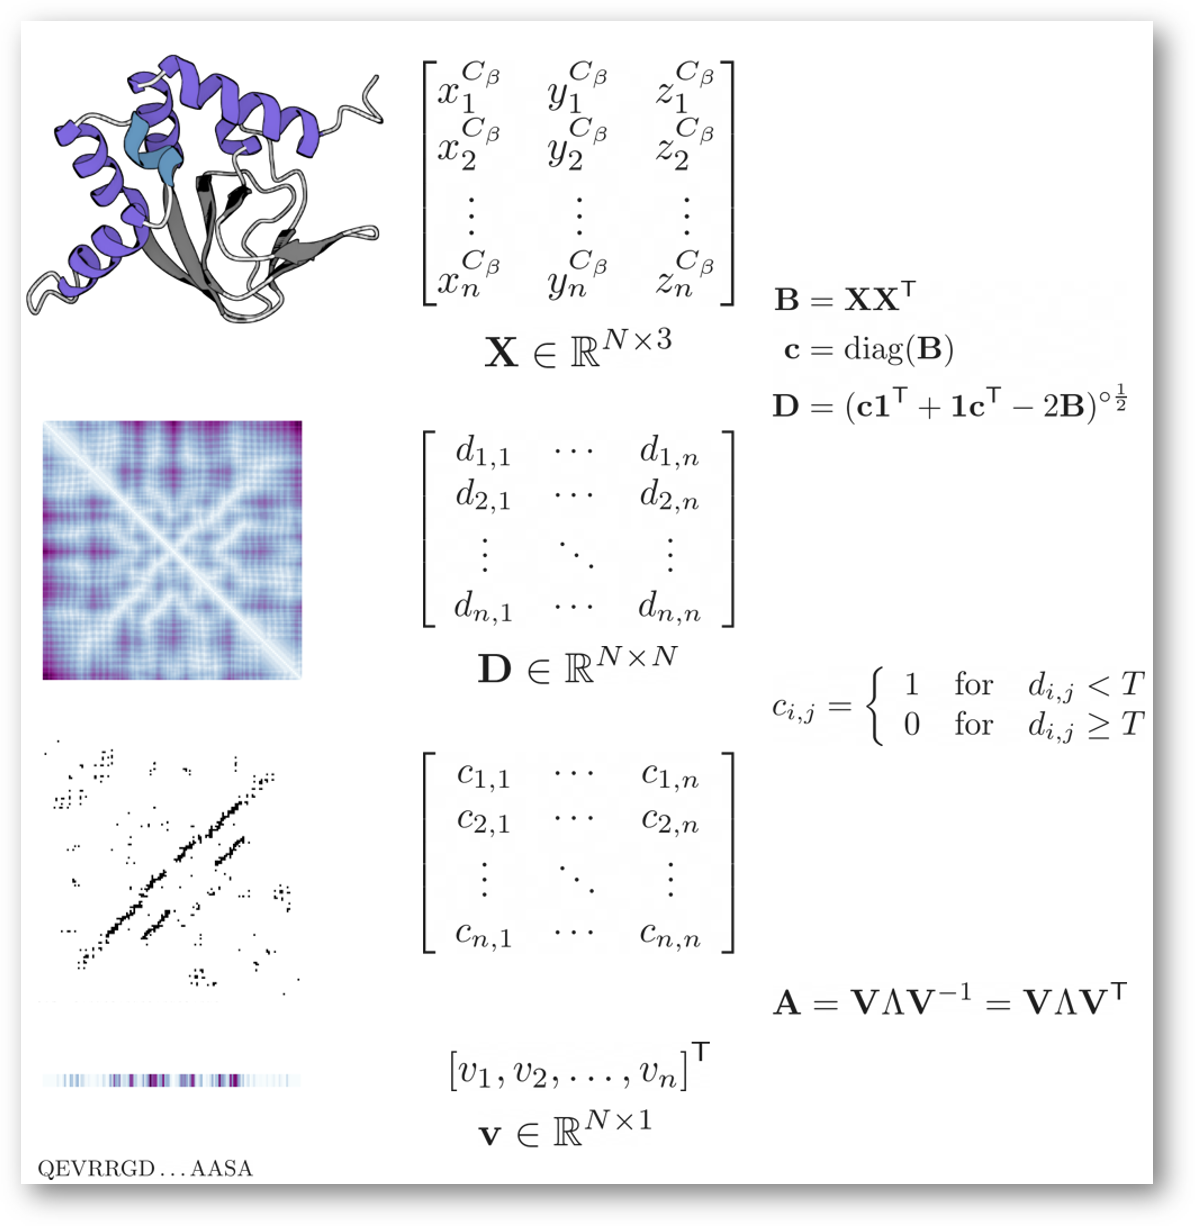
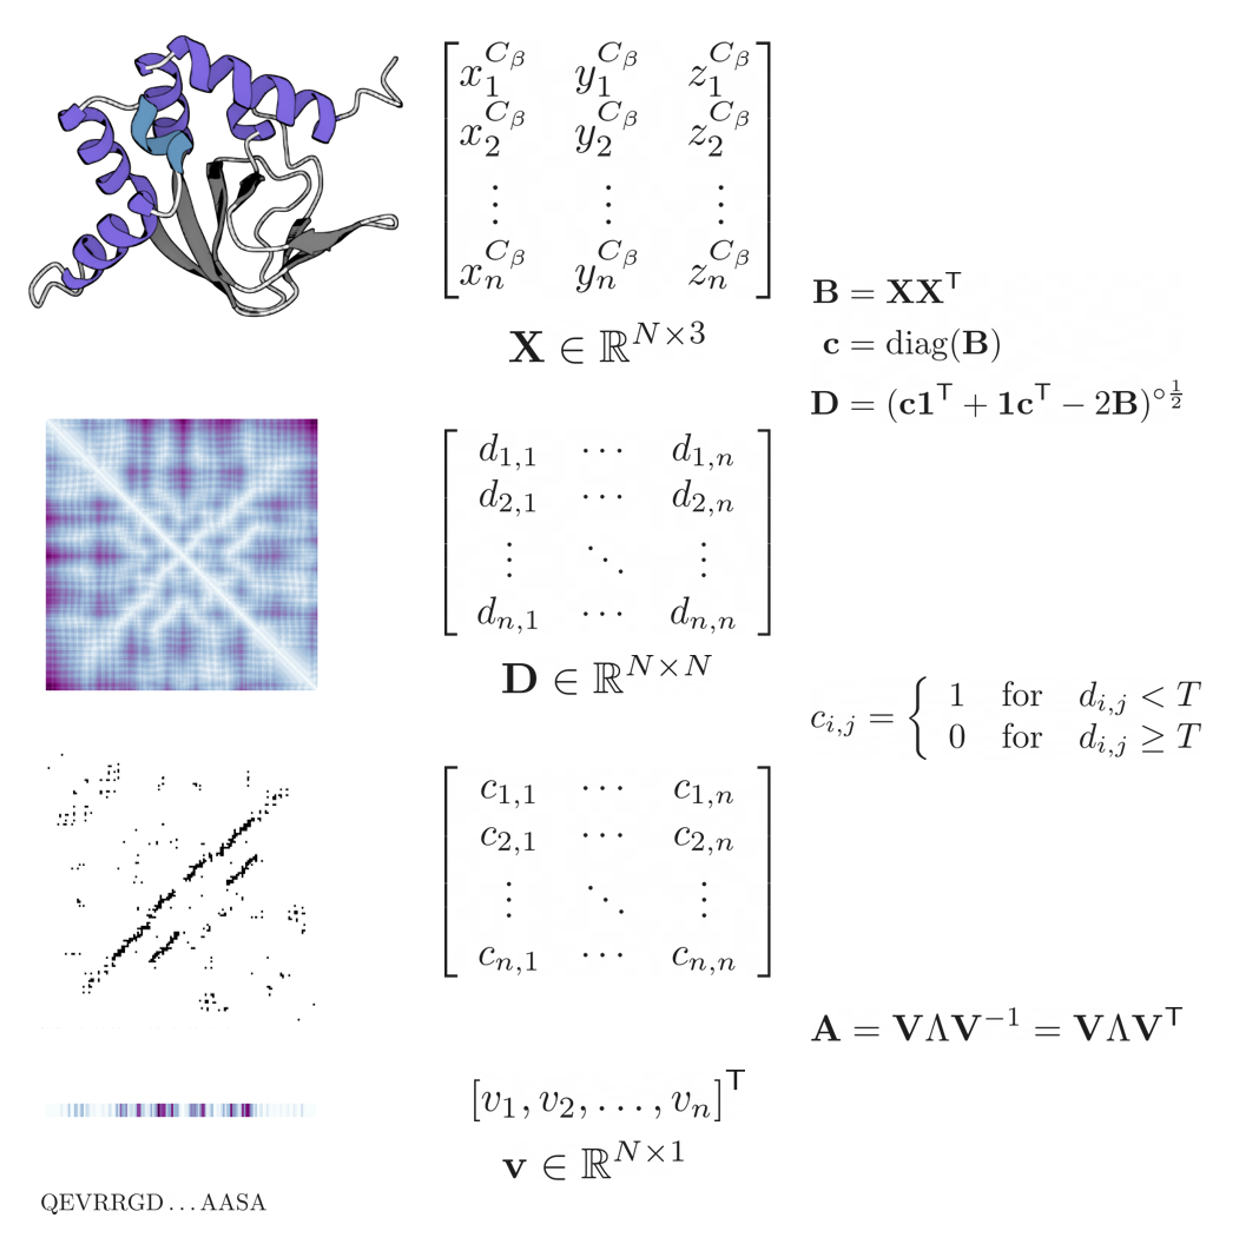
mod fig

diff --git a/_posts/2022-05-21-contact-maps.md b/_posts/2022-05-21-contact-maps.md
@@ -16,7 +16,7 @@ A similar topic had been discussed by Bartoli et al<d-cite key="Bartoli2008"></d
 
 <div class="row">
     <div class="col-sm mt-3 mt-md-0">
-        {% include figure.html path="assets/img/pro3d_classic_representation.png" title="Classical Method" class="img-fluid rounded z-depth-1" zoomable=true %}
+        {% include figure.html path="assets/img/pro3d_classic_representation.png" class="img-fluid rounded z-depth-1" %}
     </div>
 </div>
 <div class="caption">
